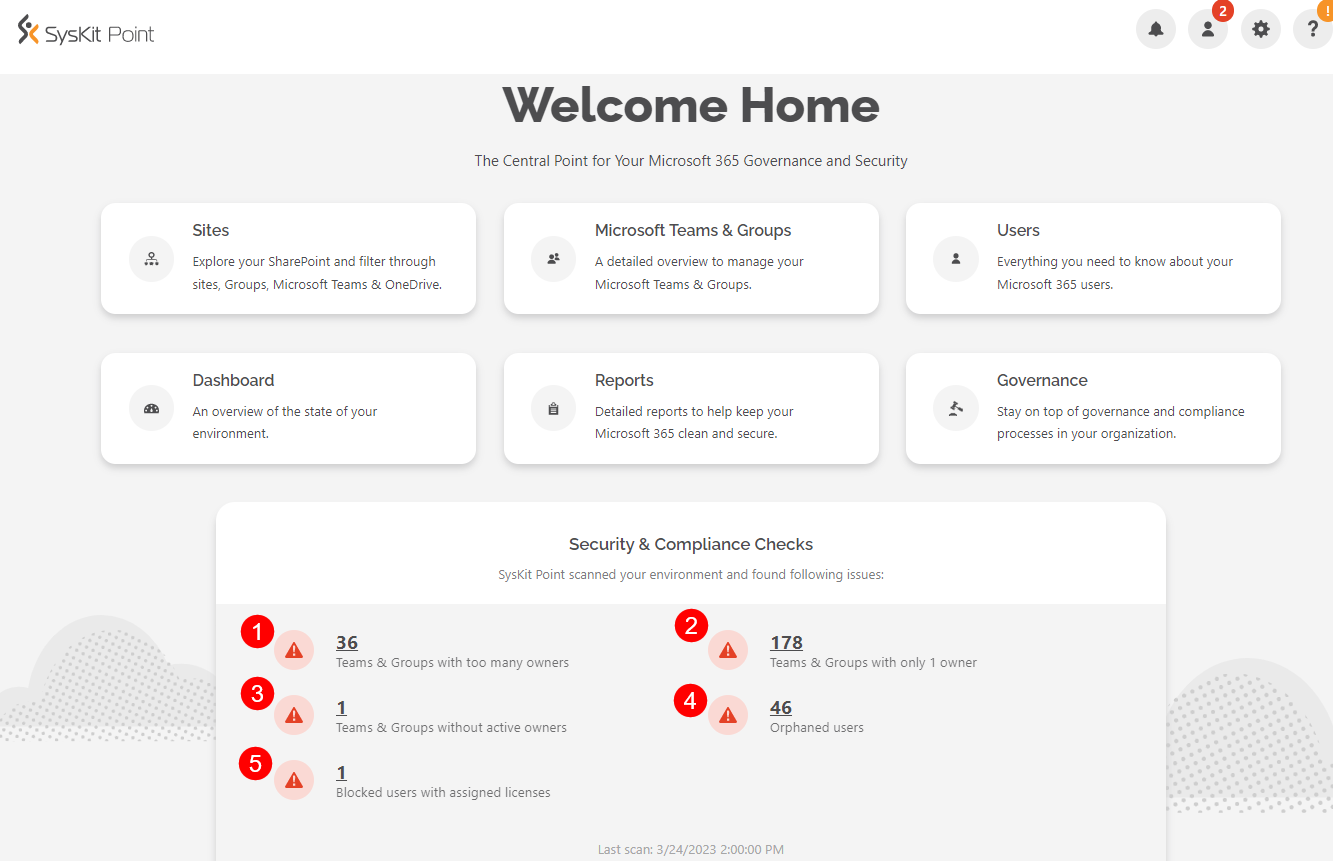
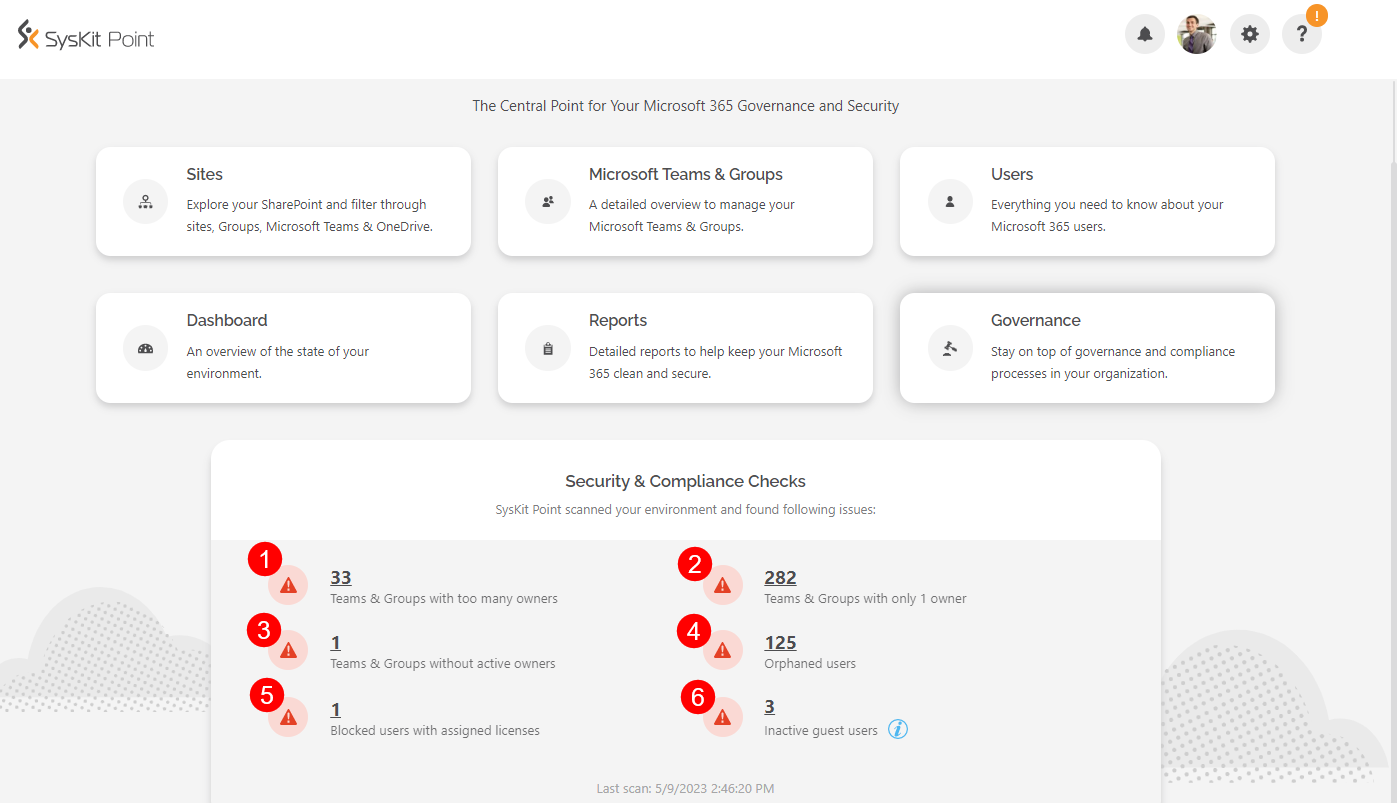
update to SCC article

diff --git a/governance-and-automation/security-and-compliance-checks.md b/governance-and-automation/security-and-compliance-checks.md
@@ -6,7 +6,7 @@ description: This article provides information on the Security and Compliance ch
 
 The new **Security and Compliance Checks**, visible directly from your SysKit Point home screen, pinpoint the **most important vulnerabilities and misalignments** with Microsoft 365 best practices. These checks should keep you aware and help you **react quickly to keep your environment secure and under control**.
 
-Collecting all the important info about the security and compliance state of the environment is a time-consuming and repetitive administration task. SysKit Point will perform regular security and compliance checks for you and present the results on your home screen from where you can click and **drill down to a specific report to investigate further**and decide if you want to take some action and **resolve** specific issue. 
+Collecting all the important info about the security and compliance state of the environment is a time-consuming and repetitive administration task. SysKit Point will perform regular security and compliance checks for you and present the results on your home screen from where you can click and **drill down to a specific report to investigate further** and decide if you want to take some action and **resolve** specific issue. 
 
 {% hint style="information" %}
 **Want to join Early Access?** Security and Compliance Checks are not yet publicly available for all users. If you want to learn how it works and see what's coming up next, [schedule a call (calendly)](https://calendly.com/d/yjj-7y5-sky/syskit-point-early-access-program) with our Product Manager and provide feedback to help us shape up this feature to fit your needs.   
@@ -24,6 +24,8 @@ Directly from your home screen, you will see several things that need to be inve
 
 * **Blocked users with assigned licenses (5)** - shows the number of users with one or more active licenses assigned that have been blocked, which helps you **detect and remove licenses** that are not being utilized.
 
+* **Inactive guest users (6)** - shows the number of guest users that have been inactive for a certain amount of time and helps you optimize your environment and keep it safe
+
 ![Security & Compliance Checks](../.gitbook/assets/security-and-compliance-checks_home-page.png)
 
 ## Automated Governance
@@ -40,6 +42,7 @@ At the bottom of the screen, you will find:
   * Number of Teams and Groups without active owners 
   * Number of Orphaned Users 
   * Number of Blocked users with assigned licenses
+  * Number of Inactive Guest Users
 
 By clicking each of the options, you are provided with **more information about the current state of your environment**. 
 
@@ -124,5 +127,23 @@ Under the Security & Compliance Checks section, click the **number showing Block
 
 ![Blocked Users With Assigned Licenses - Inactive Licenses](../.gitbook/assets/security-and-compliance-checks_inactive-licenses.png)
 ![Blocked Users With Assigned Licenses - Remove Inactive Licenses](../.gitbook/assets/security-and-compliance-checks_inactive-licenses-remove.png)
+
+
+### Inactive Guest Users
+
+Under the Security & Compliance Checks section, click the **number showing Inactive Guest Users**.
+
+  * The Reports section opens, showing a list of all **Inactive Guest Users** 
+  * **Select one or multiple users (1)** by clicking the checkbox on the left side next to their name
+    * The bar should change color to a light orange when selected
+  * To remove inactive guest users, there are **two options**: 
+    * To completely remove the user, **click the Delete User button (2)** located on the right side
+      * When the Delete User pop-up appears, **click the Delete User option (4)** to confirm your decision
+    * To block the sign-in for the user, **click the Block User Sign-In button (3)**
+      * Confirm your choice by **clicking the Block button (5)** on the pop-up that appears
+
+![Inactive Guest Users](../.gitbook/assets/security-and-compliance-checks_inactive-guest-users.png)
+![Inactive Guest Users - Delete User](../.gitbook/assets/security-and-compliance-checks_inactive-guest-users-delete.png)
+![Inactive Guest Users - Block User Sign-In](../.gitbook/assets/security-and-compliance-checks_inactive-guest-users-block.png)
 
 **Want to join Early Access?** Security and Compliance Checks are not yet publicly available for all users. If you want to learn more and see how it works, [please find a suitable time slot](https://calendly.com/d/yjj-7y5-sky/syskit-point-early-access-program), and we will gladly guide you through.
